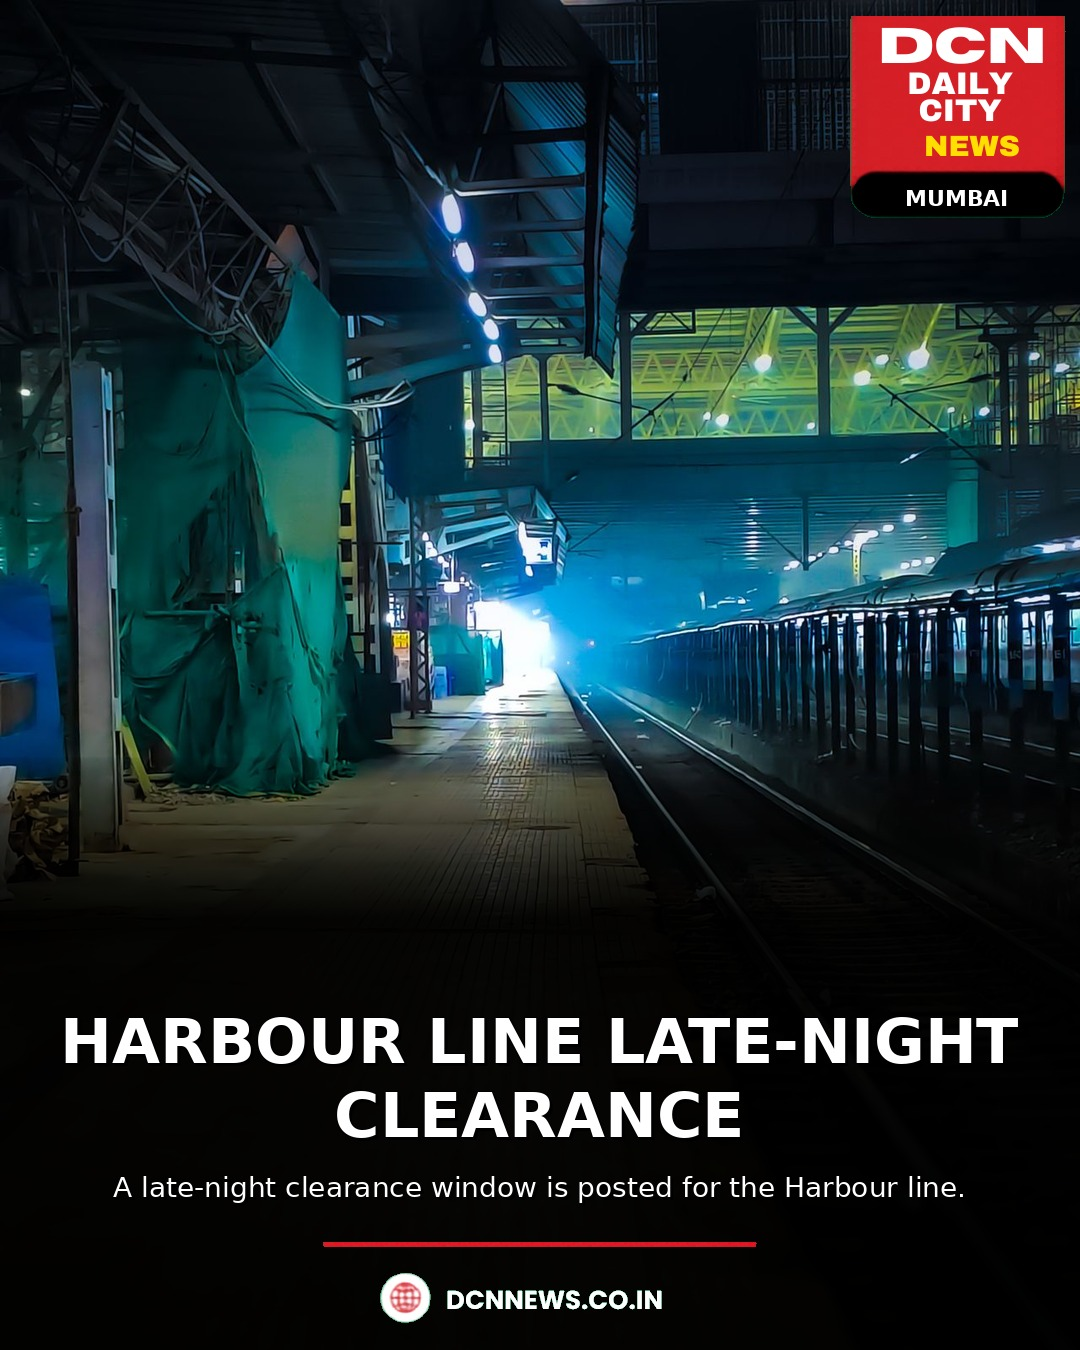
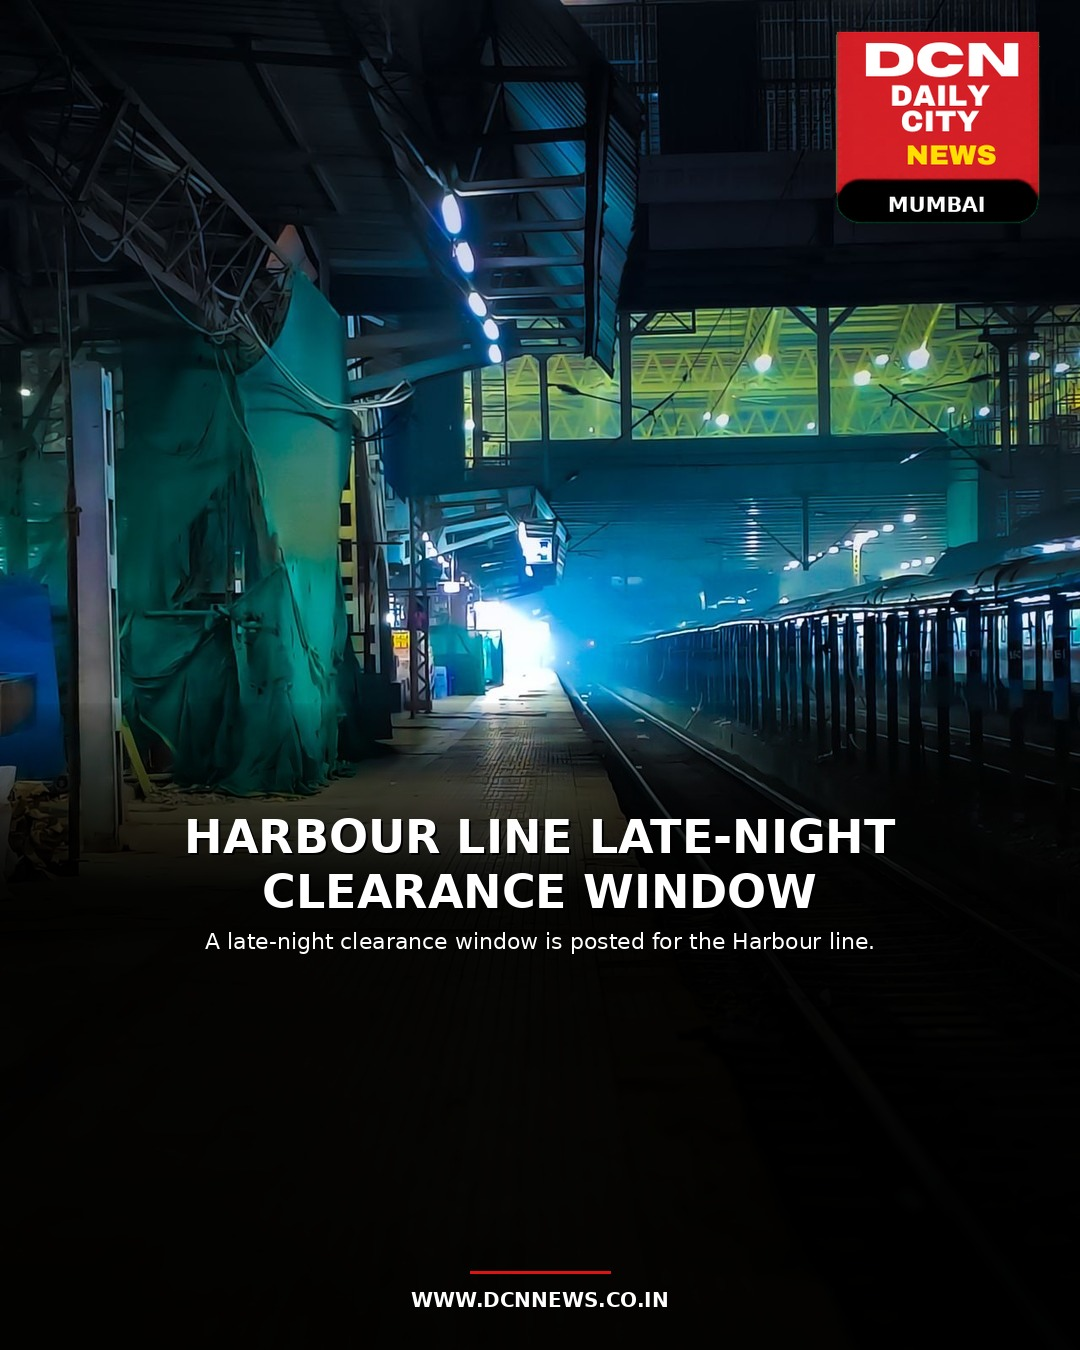
Fix Post headline inset/wrap and Browser cream stills.
Overlay headlines on chrome cards now use safe side padding and
overflow-wrap so uppercase multi-line copy stays readable on desktop
and ~390px. YouTube keeps 16:9 via stamped postPlatform after analyze
and Copy this style. City sample pages drop black letterbox (#111
contain) for cream cover stills; DCN X/YT demo JPGs rebaked with a
110px safe inset.

diff --git a/apps/web/studio.html b/apps/web/studio.html
@@ -1447,6 +1447,8 @@
     background-position: center;
     overflow: hidden;
     cursor: pointer;
+    container-type: inline-size;
+    container-name: ig-frame;
   }
   .ig-frame[data-aspect="yt"] { aspect-ratio: 16 / 9; }
   .ig-frame > .ig-photo {
@@ -1486,39 +1488,59 @@
   }
   .ig-frame .ig-card-text {
     position: absolute;
-    left: 6%;
-    right: 6%;
-    top: 58%;
-    bottom: 11%;
+    left: 0;
+    right: 0;
+    top: 56%;
+    bottom: 10%;
     z-index: 3;
     display: flex;
     flex-direction: column;
     align-items: center;
     justify-content: center;
     text-align: center;
-    gap: 10px;
+    gap: 8px;
+    /* Safe inset from frame edges — desktop + ~390px mobile */
+    padding: 0 max(18px, 9%);
+    box-sizing: border-box;
     pointer-events: auto;
     cursor: text;
+    overflow: hidden;
+  }
+  .ig-frame[data-aspect="yt"] .ig-card-text {
+    top: 46%;
+    bottom: 12%;
+    padding: 0 max(20px, 8%);
+    gap: 6px;
   }
   .ig-frame .ig-card-text .ig-headline {
     padding: 0;
     margin: 0;
     width: 100%;
+    max-width: 100%;
+    box-sizing: border-box;
     color: #fff;
-    font-size: clamp(15px, 4.2vw, 22px);
+    font-size: clamp(14px, 3.8vw, 22px);
+    font-size: clamp(14px, 5.5cqw, 22px);
     font-weight: 800;
     letter-spacing: 0.02em;
     text-transform: uppercase;
-    line-height: 1.15;
+    line-height: 1.18;
     text-shadow: 0 2px 8px rgba(0,0,0,0.55);
     outline: none;
+    white-space: normal;
+    overflow-wrap: anywhere;
+    word-break: break-word;
+    hyphens: manual;
   }
   .ig-frame .ig-card-text .ig-caption {
     padding: 0;
     margin: 0;
     width: 100%;
+    max-width: 100%;
+    box-sizing: border-box;
     color: #fff;
-    font-size: clamp(11px, 2.6vw, 13px);
+    font-size: clamp(11px, 2.5vw, 13px);
+    font-size: clamp(11px, 3.4cqw, 13px);
     font-weight: 500;
     letter-spacing: 0.01em;
     line-height: 1.35;
@@ -1526,6 +1548,9 @@
     outline: none;
     max-height: 4.2em;
     overflow: hidden;
+    white-space: normal;
+    overflow-wrap: anywhere;
+    word-break: break-word;
   }
   .ig-frame.no-chrome .ig-plate,
   .ig-frame.no-chrome .ig-chrome,
@@ -1900,7 +1925,7 @@
     height: auto;
     max-width: none;
     object-fit: cover;
-    background: #0A0A0A;
+    background: var(--panel);
     display: block;
   }
   .browser-preview[data-kind="youtube"] .browser-fallback img { aspect-ratio: 16 / 9; object-fit: cover; }
@@ -4100,8 +4125,14 @@
   function postPlatform(run) {
     const beat = (run?.beat || "").toLowerCase();
     const src = resolveSourceUrl(run) || "";
-    if (beat === "youtube" || /youtube\.com|youtu\.be|sample-dcn-yt/i.test(src)) return "youtube";
-    if (beat === "x" || /(^|\.)x\.com|twitter\.com|sample-dcn-x/i.test(src)) return "x";
+    const pasted = (typeof pendingSourceUrl === "string" ? pendingSourceUrl : "")
+      || ($("pastePostUrl")?.value || "")
+      || ($("styleUrl")?.value || "");
+    const ref = (run?._postPlatform || run?.pack?.postPlatform || "").toLowerCase();
+    const blob = `${beat}\n${src}\n${pasted}\n${ref}`;
+    if (ref === "youtube" || beat === "youtube" || /youtube\.com|youtu\.be|sample-dcn-yt/i.test(blob)) return "youtube";
+    if (ref === "x" || beat === "x" || /(^|\.|\/)x\.com|twitter\.com|sample-dcn-x/i.test(blob)) return "x";
+    if (ref === "instagram" || /instagram\.com|instagr\.am|sample-dcn-ig/i.test(blob)) return "instagram";
     return "instagram";
   }
 
@@ -4367,6 +4398,8 @@
       });
       const data = await res.json().catch(() => ({}));
       if (data.run) {
+        data.run._postPlatform = postPlatform({ ...data.run, hits: [{ sourceUrl }, ...(data.run.hits || [])] });
+        if (data.run.pack) data.run.pack.postPlatform = data.run._postPlatform;
         applyRun(data.run, { preferBrowser: true });
         if ($("pastePostUrl")) $("pastePostUrl").value = sourceUrl;
         setStyleUrl(sourceUrl);
@@ -4412,7 +4445,11 @@
         const city = projectChromeCity();
         data.run._hydChrome = city === "hyderabad";
         data.run._styleChrome = true;
-        if (data.run.pack) data.run.pack.templateChrome = city === "hyderabad" ? "dcn_hyd" : ("dcn_" + city);
+        data.run._postPlatform = browserKind(ref) === "page" ? postPlatform({ hits: [{ sourceUrl: ref }] }) : browserKind(ref);
+        if (data.run.pack) {
+          data.run.pack.templateChrome = city === "hyderabad" ? "dcn_hyd" : ("dcn_" + city);
+          data.run.pack.postPlatform = data.run._postPlatform;
+        }
         applyRun(data.run, { preferBrowser: false });
       } else {
         setStatus("needs_input");

diff --git a/apps/web/sample-bengaluru.html b/apps/web/sample-bengaluru.html
@@ -16,7 +16,7 @@
   .kicker { font-size: 12px; letter-spacing: .08em; text-transform: uppercase; color: var(--muted); margin-bottom: 12px; }
   h1 { font-family: Anton, sans-serif; font-size: 44px; line-height: .95; letter-spacing: -.02em; margin: 0 0 16px; }
   .lede { font-size: 18px; color: var(--muted); line-height: 1.5; margin: 0 0 24px; }
-  .still { display:block; width:100%; height:auto; min-height:360px; max-height:480px; object-fit:contain; object-position:center; border-radius:20px; margin:0 0 24px; background:#111; }
+  .still { display:block; width:100%; height:auto; aspect-ratio:16/10; object-fit:cover; object-position:center; border-radius:20px; margin:0 0 24px; background:var(--card); }
   p { font-size: 16px; line-height: 1.6; color: var(--ink); }
 </style>
 </head>

diff --git a/apps/web/sample-delhi.html b/apps/web/sample-delhi.html
@@ -16,7 +16,7 @@
   .kicker { font-size: 12px; letter-spacing: .08em; text-transform: uppercase; color: var(--muted); margin-bottom: 12px; }
   h1 { font-family: Anton, sans-serif; font-size: 44px; line-height: .95; letter-spacing: -.02em; margin: 0 0 16px; }
   .lede { font-size: 18px; color: var(--muted); line-height: 1.5; margin: 0 0 24px; }
-  .still { display:block; width:100%; height:auto; min-height:360px; max-height:480px; object-fit:contain; object-position:center; border-radius:20px; margin:0 0 24px; background:#111; }
+  .still { display:block; width:100%; height:auto; aspect-ratio:16/10; object-fit:cover; object-position:center; border-radius:20px; margin:0 0 24px; background:var(--card); }
   p { font-size: 16px; line-height: 1.6; color: var(--ink); }
 </style>
 </head>

diff --git a/apps/web/sample-hyderabad.html b/apps/web/sample-hyderabad.html
@@ -16,7 +16,7 @@
   .kicker { font-size: 12px; letter-spacing: .08em; text-transform: uppercase; color: var(--muted); margin-bottom: 12px; }
   h1 { font-family: Anton, sans-serif; font-size: 44px; line-height: .95; letter-spacing: -.02em; margin: 0 0 16px; }
   .lede { font-size: 18px; color: var(--muted); line-height: 1.5; margin: 0 0 24px; }
-  .still { display:block; width:100%; height:auto; min-height:360px; max-height:480px; object-fit:contain; object-position:center; border-radius:20px; margin:0 0 24px; background:#111; }
+  .still { display:block; width:100%; height:auto; aspect-ratio:16/10; object-fit:cover; object-position:center; border-radius:20px; margin:0 0 24px; background:var(--card); }
   p { font-size: 16px; line-height: 1.6; color: var(--ink); }
 </style>
 </head>

diff --git a/apps/web/sample-mumbai.html b/apps/web/sample-mumbai.html
@@ -16,7 +16,7 @@
   .kicker { font-size: 12px; letter-spacing: .08em; text-transform: uppercase; color: var(--muted); margin-bottom: 12px; }
   h1 { font-family: Anton, sans-serif; font-size: 44px; line-height: .95; letter-spacing: -.02em; margin: 0 0 16px; }
   .lede { font-size: 18px; color: var(--muted); line-height: 1.5; margin: 0 0 24px; }
-  .still { display:block; width:100%; height:auto; min-height:360px; max-height:480px; object-fit:contain; object-position:center; border-radius:20px; margin:0 0 24px; background:#111; }
+  .still { display:block; width:100%; height:auto; aspect-ratio:16/10; object-fit:cover; object-position:center; border-radius:20px; margin:0 0 24px; background:var(--card); }
   p { font-size: 16px; line-height: 1.6; color: var(--ink); }
 </style>
 </head>

diff --git a/apps/web/sample-pune.html b/apps/web/sample-pune.html
@@ -16,7 +16,7 @@
   .kicker { font-size: 12px; letter-spacing: .08em; text-transform: uppercase; color: var(--muted); margin-bottom: 12px; }
   h1 { font-family: Anton, sans-serif; font-size: 44px; line-height: .95; letter-spacing: -.02em; margin: 0 0 16px; }
   .lede { font-size: 18px; color: var(--muted); line-height: 1.5; margin: 0 0 24px; }
-  .still { display:block; width:100%; height:auto; min-height:360px; max-height:480px; object-fit:contain; object-position:center; border-radius:20px; margin:0 0 24px; background:#111; }
+  .still { display:block; width:100%; height:auto; aspect-ratio:16/10; object-fit:cover; object-position:center; border-radius:20px; margin:0 0 24px; background:var(--card); }
   p { font-size: 16px; line-height: 1.6; color: var(--ink); }
 </style>
 </head>

diff --git a/apps/web/sample-source.html b/apps/web/sample-source.html
@@ -16,7 +16,7 @@
   .kicker { font-size: 12px; letter-spacing: .08em; text-transform: uppercase; color: var(--muted); margin-bottom: 12px; }
   h1 { font-family: Anton, sans-serif; font-size: 44px; line-height: .95; letter-spacing: -.02em; margin: 0 0 16px; }
   .lede { font-size: 18px; color: var(--muted); line-height: 1.5; margin: 0 0 24px; }
-  .still { display:block; width:100%; height:auto; min-height:360px; max-height:480px; object-fit:contain; object-position:center; border-radius:20px; margin:0 0 24px; background:#111; }
+  .still { display:block; width:100%; height:auto; aspect-ratio:16/10; object-fit:cover; object-position:center; border-radius:20px; margin:0 0 24px; background:var(--card); }
   p { font-size: 16px; line-height: 1.6; color: var(--ink); }
 </style>
 </head>

diff --git a/scripts/bake_dcn_platform_stills.py b/scripts/bake_dcn_platform_stills.py
@@ -1,12 +1,11 @@
 #!/usr/bin/env python3
 """Bake DCN X (4:5) and YouTube (16:9) stills with the real DCN logo.
 
-Replaces the lime placeholder badges on dcn-x.jpg / dcn-yt.jpg.
+Headlines stay fully inside a safe inset (no left/right clipping).
 Instagram still (dcn-ig.jpg) is left untouched.
 """
 from __future__ import annotations
 
-import shutil
 from pathlib import Path
 
 from PIL import Image, ImageDraw, ImageFont
@@ -17,6 +16,9 @@ CHROME_MUMBAI = OUT / "templates" / "template_post_chrome_mumbai.png"
 CHROME_BLR = OUT / "templates" / "template_post_chrome_bengaluru.png"
 BOLD = "/usr/share/fonts/truetype/dejavu/DejaVuSans-Bold.ttf"
 REG = "/usr/share/fonts/truetype/dejavu/DejaVuSans.ttf"
+
+# Safe horizontal inset from each edge (px). Keeps glyphs off the crop edge.
+SAFE_X = 110
 
 
 def font(path: str, size: int) -> ImageFont.FreeTypeFont:
@@ -104,33 +106,70 @@ def wrap_lines(draw: ImageDraw.ImageDraw, text: str, fnt, max_w: int) -> list[st
     return lines
 
 
-def draw_copy(canvas: Image.Image, headline: str, deck: str, h_size: int, d_size: int) -> None:
+def fit_headline(draw: ImageDraw.ImageDraw, headline: str, max_w: int, start: int, floor: int) -> tuple[ImageFont.FreeTypeFont, list[str], int]:
+    """Shrink font until every wrapped line fits inside max_w."""
+    size = start
+    while size >= floor:
+        f_h = font(BOLD, size)
+        lines = wrap_lines(draw, headline, f_h, max_w)
+        widest = max((draw.textbbox((0, 0), ln, font=f_h)[2] for ln in lines), default=0)
+        if widest <= max_w and len(lines) <= 3:
+            return f_h, lines, size
+        size -= 2
+    f_h = font(BOLD, floor)
+    return f_h, wrap_lines(draw, headline, f_h, max_w), floor
+
+
+def draw_centered_lines(draw: ImageDraw.ImageDraw, lines: list[str], fnt, y: int, line_h: int, fill=(255, 255, 255, 255)) -> int:
+    w = draw.im.size[0] if hasattr(draw, "im") else None
+    # ImageDraw has .im on some versions; fall back via textbbox centering with canvas width passed in
+    return y  # placeholder — use draw_copy below
+
+
+def draw_copy(canvas: Image.Image, headline: str, deck: str, h_start: int, d_size: int, y_frac: float = 0.62) -> None:
     draw = ImageDraw.Draw(canvas)
-    f_h = font(BOLD, h_size)
+    max_w = canvas.size[0] - (SAFE_X * 2)
+    f_h, lines, h_size = fit_headline(draw, headline, max_w, h_start, 28)
     f_d = font(REG, d_size)
-    max_w = canvas.size[0] - 160
-    lines = wrap_lines(draw, headline, f_h, max_w)
     line_h = int(h_size * 1.2)
-    total = len(lines) * line_h + (int(d_size * 1.6) if deck else 0)
-    y = int(canvas.size[1] * 0.62)
+    y = int(canvas.size[1] * y_frac)
     for line in lines:
         bb = draw.textbbox((0, 0), line, font=f_h)
-        x = (canvas.size[0] - (bb[2] - bb[0])) // 2
+        tw = bb[2] - bb[0]
+        x = max(SAFE_X, (canvas.size[0] - tw) // 2)
+        # Guard: never let glyph start left of SAFE_X
+        if x < SAFE_X:
+            x = SAFE_X
         draw.text((x + 2, y + 2), line, font=f_h, fill=(0, 0, 0, 160))
         draw.text((x, y), line, font=f_h, fill=(255, 255, 255, 255))
         y += line_h
     if deck:
-        y += 6
+        y += 8
         bb = draw.textbbox((0, 0), deck, font=f_d)
-        x = (canvas.size[0] - (bb[2] - bb[0])) // 2
+        tw = bb[2] - bb[0]
+        x = max(SAFE_X, (canvas.size[0] - tw) // 2)
         draw.text((x, y), deck, font=f_d, fill=(255, 255, 255, 220))
 
 
 def bake_x() -> None:
-    src = OUT / "mumbai-card.jpg"
+    photo = Image.open(OUT / "mumbai.jpg").convert("RGB")
+    chrome = Image.open(CHROME_MUMBAI).convert("RGBA")
+    w, h = 1080, 1350
+    fitted = cover_crop(photo, w, h)
+    canvas = dark_plate(fitted, top_frac=0.52)
+    paste_logo(canvas, chrome, scale=0.95)
+    draw_copy(
+        canvas,
+        "Harbour line late-night clearance window",
+        "A late-night clearance window is posted for the Harbour line.",
+        h_start=46,
+        d_size=22,
+        y_frac=0.60,
+    )
+    draw_footer(canvas)
     dest = OUT / "dcn-x.jpg"
-    shutil.copyfile(src, dest)
-    print(f"dcn-x.jpg ← {src.name} ({Image.open(dest).size})")
+    canvas.convert("RGB").save(dest, quality=92, optimize=True)
+    print(f"dcn-x.jpg 4:5 {canvas.size} safe_x={SAFE_X}")
 
 
 def bake_yt() -> None:
@@ -140,22 +179,18 @@ def bake_yt() -> None:
     fitted = cover_crop(photo, w, h)
     canvas = dark_plate(fitted, top_frac=0.50)
     paste_logo(canvas, chrome, scale=1.2)
-    draw = ImageDraw.Draw(canvas)
-    f_h = font(BOLD, 48)
-    for i, line in enumerate(["WHITEFIELD FEEDERS", "ADD A LATE LAST TRIP"]):
-        bb = draw.textbbox((0, 0), line, font=f_h)
-        x = (1920 - (bb[2] - bb[0])) // 2
-        y = 620 + i * 58
-        draw.text((x + 2, y + 2), line, font=f_h, fill=(0, 0, 0, 160))
-        draw.text((x, y), line, font=f_h, fill=(255, 255, 255, 255))
-    f_d = font(REG, 22)
-    deck = "DCN  ·  YouTube"
-    bb = draw.textbbox((0, 0), deck, font=f_d)
-    draw.text(((1920 - (bb[2] - bb[0])) // 2, 744), deck, font=f_d, fill=(255, 255, 255, 220))
+    draw_copy(
+        canvas,
+        "Whitefield feeders add a late last trip",
+        "DCN  ·  YouTube",
+        h_start=52,
+        d_size=22,
+        y_frac=0.55,
+    )
     draw_footer(canvas)
     dest = OUT / "dcn-yt.jpg"
     canvas.convert("RGB").save(dest, quality=92, optimize=True)
-    print(f"dcn-yt.jpg 16:9 {canvas.size}")
+    print(f"dcn-yt.jpg 16:9 {canvas.size} safe_x={SAFE_X}")
 
 
 def main() -> None:
